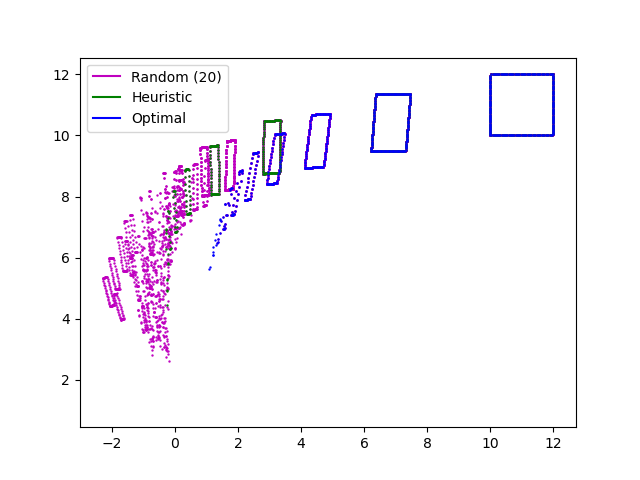
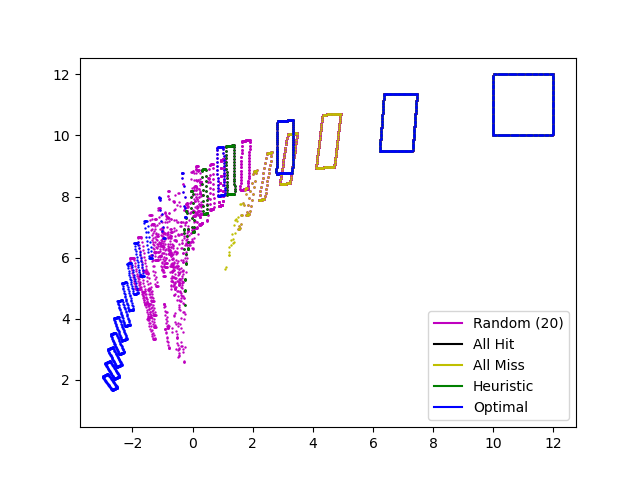
EXP

diff --git a/src/Experiments.py b/src/Experiments.py
@@ -16,14 +16,14 @@ from lib.Policies import *
 class Exp:
 
     def test3():
-        C=[0]*23
-        V=np.zeros((23,23))
+        C=[0]*19
+        V=np.zeros((19,19))
         V[0][0]=1.0
         V[1][1]=1.0
         P=[(10,12),(10,12)]
-        P=P+[(1,1)]*21
+        P=P+[(1,1)]*17
         initialSet=(C,V,P)
-        T=10
+        T=16
 
         treeObj=GenTree(Benchmarks.DC.A,Benchmarks.DC.B,Benchmarks.DC.C,Benchmarks.DC.D,Benchmarks.DC.K,T)
         treeDict=treeObj.getTree()
@@ -36,7 +36,10 @@ class Exp:
         (z,maxAlgoTraj)=policyObj.seqn2Traj(maxAlgoSeqn,initialSet)
         #print(maxAlgoSeqn)
         #exit(0)
-        trajs=[(maxHeuTraj,"Heuristic"),(maxAlgoTraj,"Optimal")]
+        (z,allMissTraj)=policyObj.getAllMissTraj(initialSet)
+        (z,allHitTraj)=policyObj.getAllHitTraj(initialSet)
+        (z,maxAlgoTraj)=policyObj.seqn2Traj(maxAlgoSeqn,initialSet)
+        trajs=[(allHitTraj,"All Hit"),(allMissTraj,"All Miss"),(maxHeuTraj,"Heuristic"),(maxAlgoTraj,"Optimal")]
         trajsComp=[]
         for j in range(20):
             (z,aRandTraj)=policyObj.getARandomTraj(initialSet)

diff --git a/lib/Visualization.py b/lib/Visualization.py
@@ -318,7 +318,7 @@ class VizRS:
                 (X,Y)=VizRS.getPlotsLineFine(rs,th1,th2)
                 plt.scatter(X,Y,color='m',s=0.5)
 
-        colors=['g','b','k','y','r']
+        colors=['k','y','g','b','r']
         cCount=0
         for (traj,lb) in trajs:
             plt.plot([1],[1],color=colors[cCount],label=lb)
